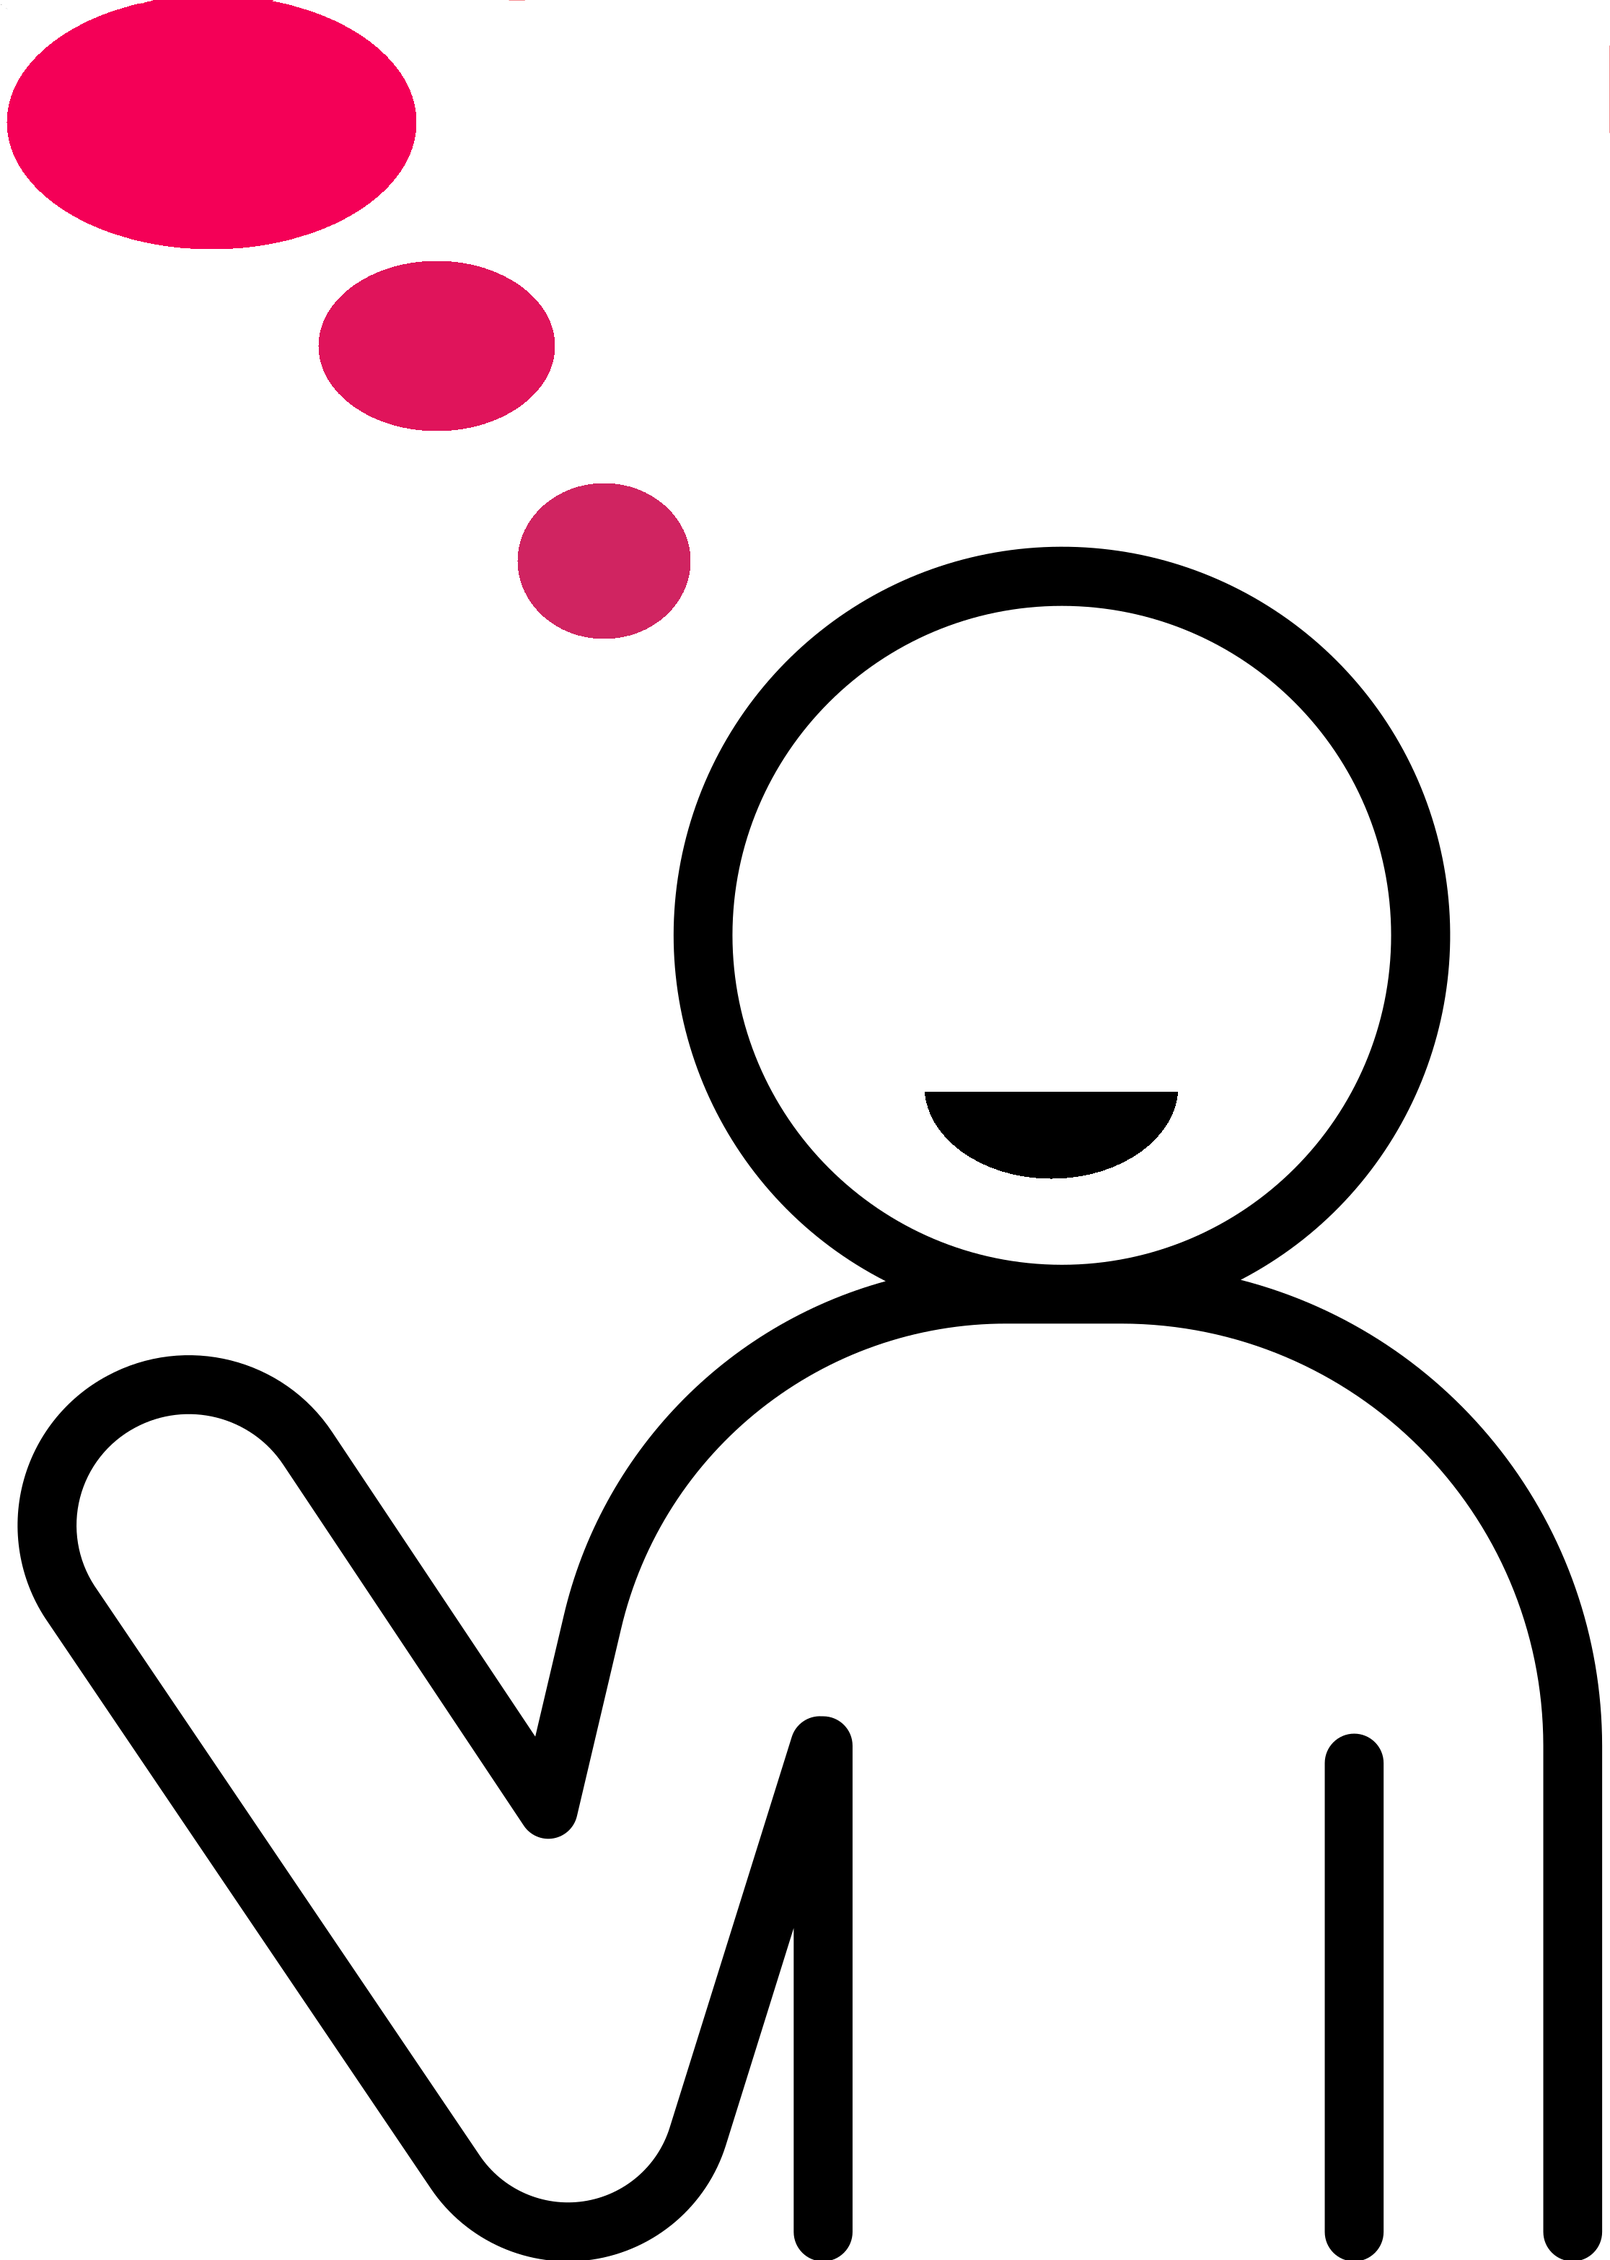
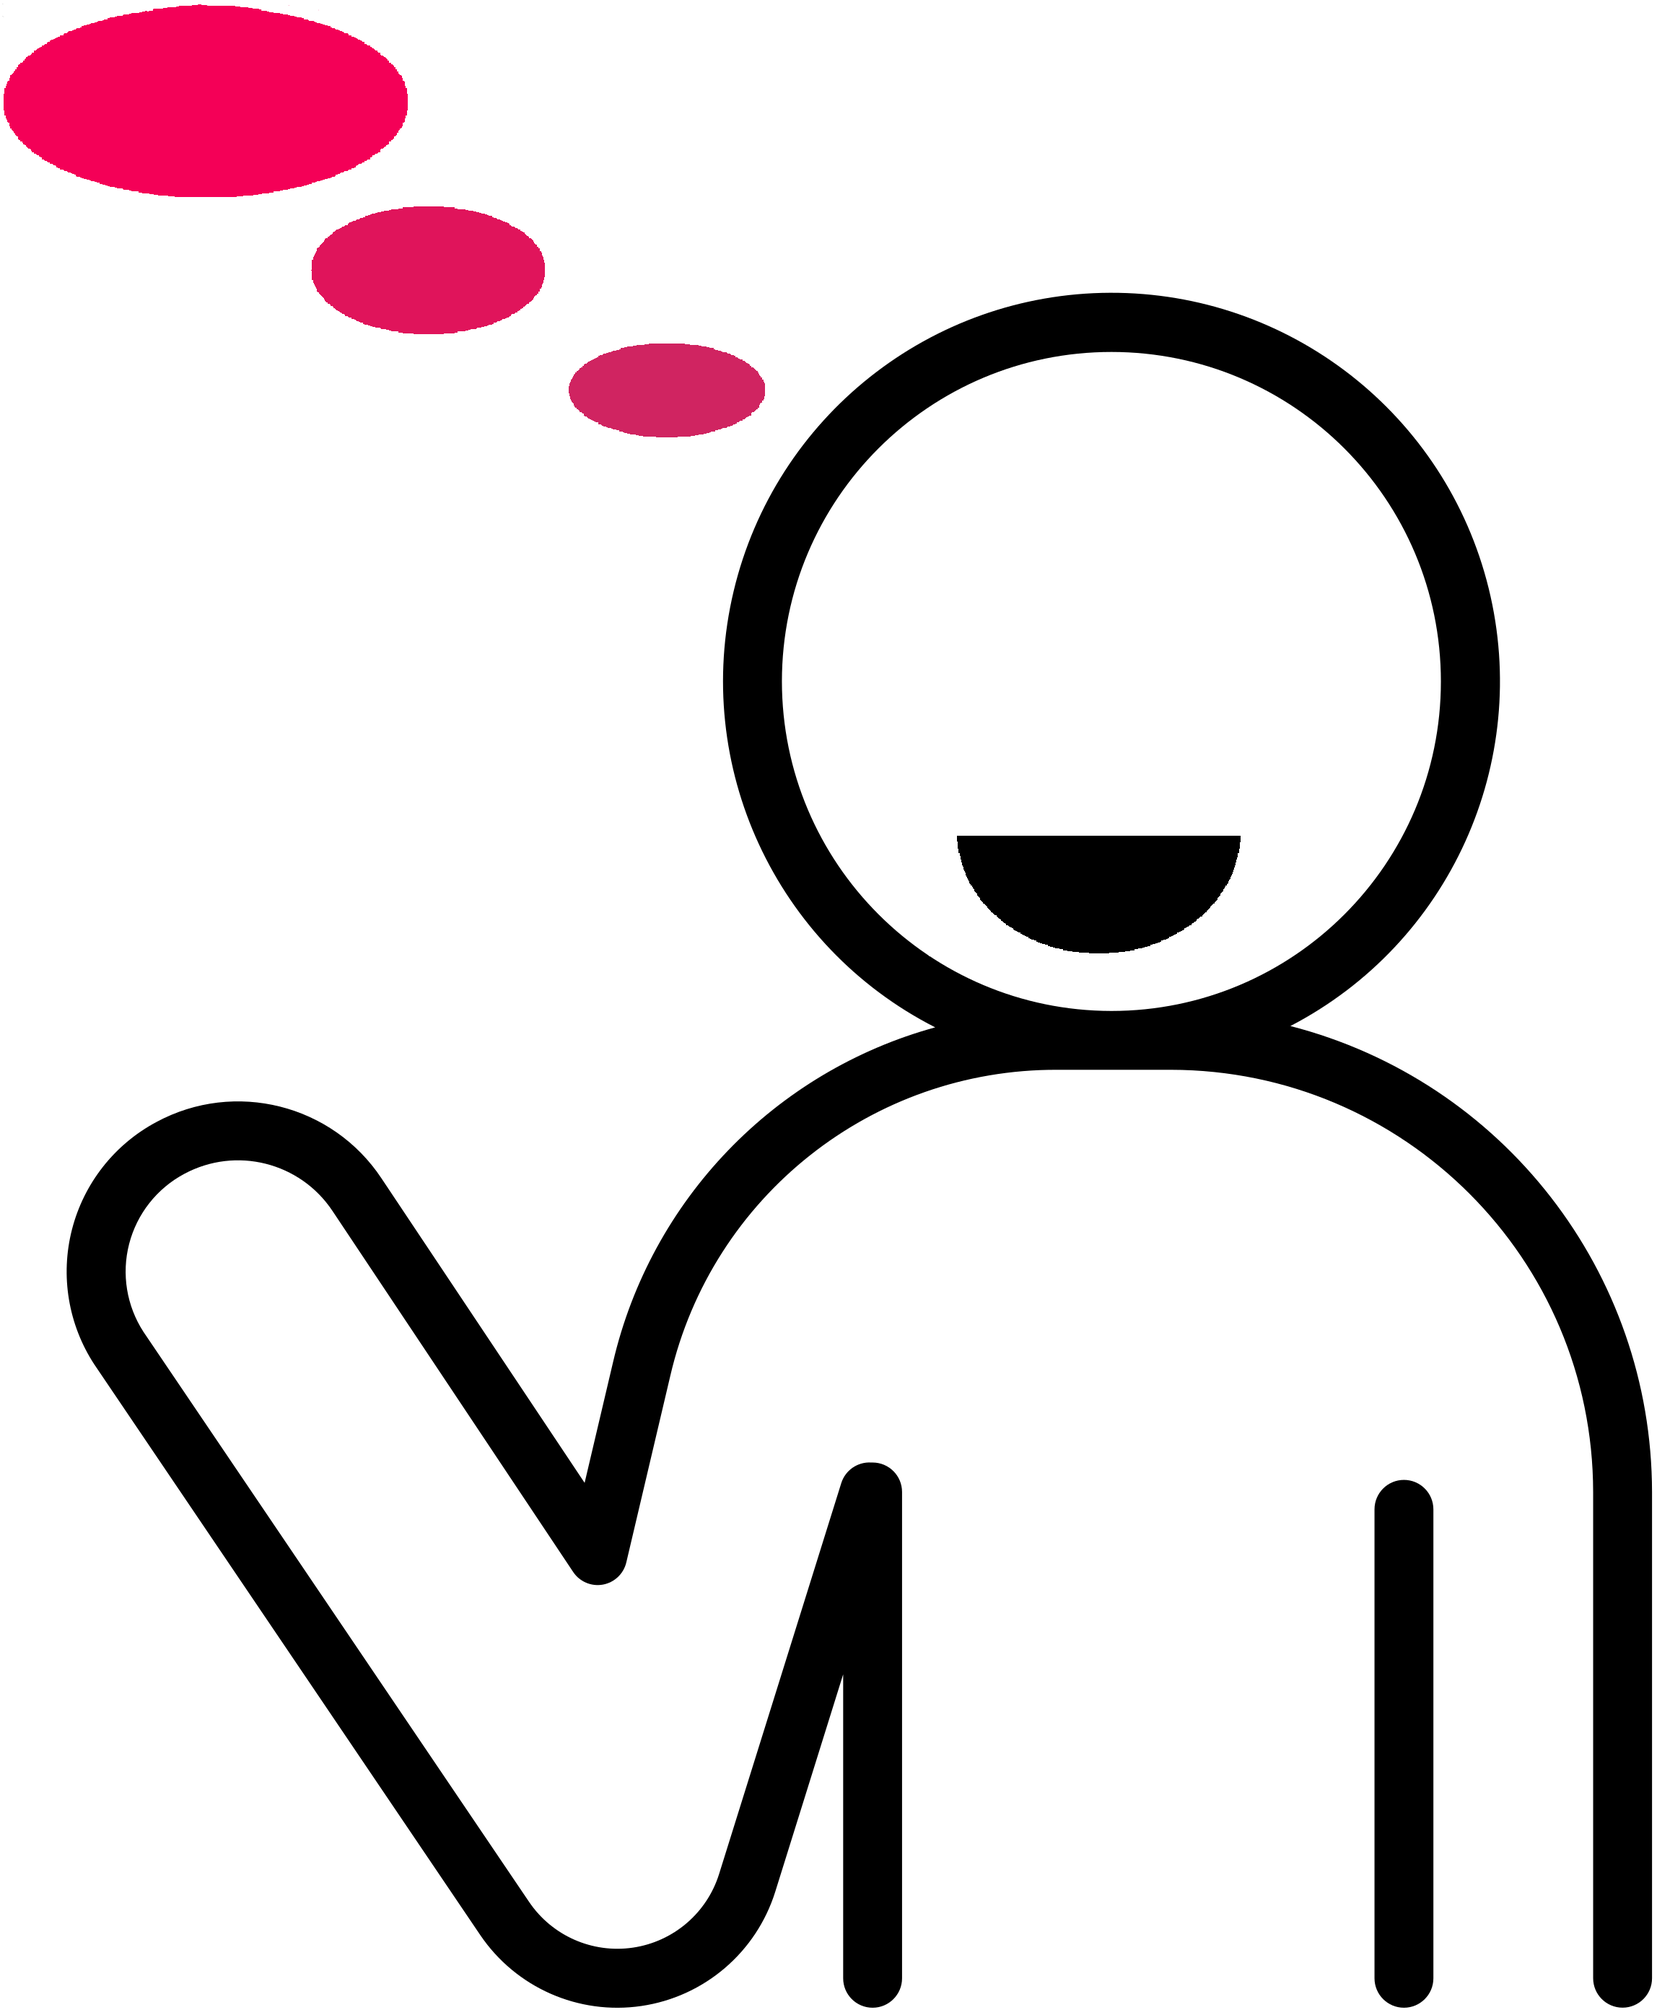
Update

diff --git a/src/Preparation.js b/src/Preparation.js
@@ -1,0 +1,37 @@
+import React from 'react'
+
+function Preparation() {
+    return (
+        <div>
+            <h3>
+                PRZYGOTOWANIE:
+            </h3>
+
+            <p>
+                Na patelni na łyżce oliwy zeszklić pokrojoną w kosteczkę cebulę, pod koniec dodać starty 1 ząbek czosnku oraz 1 łyżkę masła,
+                suszone oregano i paprykę w proszku, wymieszać i chwilę razem podsmażyć. Zdjąć z patelni i zmielić razem z mięsem
+                lub drobniej posiekać na desce.
+            </p>
+            <p>Zmielone mięso wraz z podsmażoną cebulą umieścić w misce. Dodać bułkę tartą lub ugotowaną kaszę, jajko, sos sojowy,
+                doprawić solą oraz pieprzem i dokładnie wyrobić. Wilgotnymi dłońmi uformować nieduże pulpeciki.
+            </p>
+            <p> 
+                Rozgrzać natłuszczoną oliwą patelnię i włożyć pulpeciki. Gdy się zrumienią od spodu przewrócić na drugą stronę i powtórzyć smażenie.
+                Pod koniec na patelnię dodać starty drugi ząbek czosnku i lekko go zrumienić.
+            </p>
+            <p> 
+                Na patelnię z pulpecikami wlać gorący bulion, przykryć pokrywą i gotować przez ok. 5 - 7 minut,
+                w międzyczasie potrząsnąć patelnią w celu przemieszania pulpecików.
+            </p>
+            <p> 
+                Dodać przecier pomidorowy i zagotować. Gotować bez przykrycia przez około 10 minut
+                (jeśli używaliśmy indyka) lub ok. 15 minut (w przypadku innego mięsa). W międzyczasie 1 - 2 razy zamieszać.
+            </p>
+            <p> 
+                Sos spróbować i doprawić w razie potrzeby solą, pieprzem, cukrem i suszonym oregano. Podawać z makaronem i tartym serem.
+            </p>
+        </div>
+    )
+}
+
+export default Preparation

diff --git a/src/PageTwo.js b/src/PageTwo.js
@@ -1,0 +1,55 @@
+import React from 'react';
+import styled from 'styled-components';
+import klopsikiSmall from './image/klopsikiSmall.PNG';
+import klopsikiHuge from './image/klopsikiHuge.PNG';
+import klopsikiPlate from './image/klopsikiPlate.PNG';
+import Ingredients from './Ingredients';
+import Preparation from './Preparation';
+
+
+const KlopsikiTop = styled.img`
+    display: block;
+    margin: 0 auto;
+    width: 80%;
+    max-width: 700px;
+`
+
+const Headline = styled.h1`
+    position: relative;
+    display: block;
+    margin: 30px auto;
+    width: fit-content;
+`
+
+const Footer = styled.footer`
+    font-size: 10px;
+`
+
+function PageTwo() {
+    return (
+        <div className='pageTwo'>
+            <KlopsikiTop
+                src={klopsikiSmall}
+                alt="małe zdjęcie klopsików"
+            />
+
+            <Headline>
+                Domowy przepis na <em>klopsiki w sosie pomidorowym</em>
+            </Headline>
+
+            <Ingredients />
+            <Preparation />
+
+            <h3>PROPOZYCJA PODANIA:</h3>
+            <h4>Z makaronem oraz tartym serem</h4>
+
+            <img src={klopsikiHuge} alt="" width="600" />
+            <img src={klopsikiPlate} alt="" width="600" />
+
+
+            <Footer>Zdjęcia oraz napisy zaczerpnięte z kwestiasmaku.com</Footer>
+        </div>
+    )
+}
+
+export default PageTwo;

diff --git a/src/App.js b/src/App.js
@@ -1,22 +1,35 @@
 import React from 'react';
 import './App.css';
-import ButtonToClick from './ButtonToClick';
-import Person from './Person';
+import { BrowserRouter as Router, Switch, Route } from 'react-router-dom';
+import PageOne from './PageOne';
+import PageTwo from './PageTwo';
+import PageThree from './PageThree';
 
 function App() {
   return (
-    <div className="App">
+    <Router>
+      <Switch>
 
-      <ButtonToClick />
+        <Route exact path='/'>
+          <PageOne />
+        </Route>
 
-      <Person />
+        <Route exact path='/pulpeciki'>
+          <PageTwo />
+        </Route>
 
-      {/* twarz meme */}
-      {/* just do it po 10 sek */}
-      {/* <img src="https://media.giphy.com/media/GcSqyYa2aF8dy/source.gif" alt="gif" /> */}
+        <Route exact path='/pulpeciki2'>
+          <PageThree />
+        </Route>
 
-    </div>
-  );
+      </Switch>
+    
+
+    {/* twarz meme */ }
+    {/* just do it po 10 sek */ }
+    {/* <img src="https://media.giphy.com/media/GcSqyYa2aF8dy/source.gif" alt="gif" /> */ }
+  </Router>
+  )
 }
 
 export default App;

diff --git a/src/ButtonToClick.js b/src/ButtonToClick.js
@@ -2,6 +2,7 @@ import "./ButtonToClick.css";
 import React from 'react';
 import { withStyles } from '@material-ui/core/styles';
 import Button from '@material-ui/core/Button';
+import { useHistory } from "react-router-dom";
 
 const StyledButton = withStyles({
     root: {
@@ -10,22 +11,24 @@ const StyledButton = withStyles({
 })(Button);
 
 function ButtonToClick() {
+    let history = useHistory();
 
     function handleClick() {
-        alert("praca w toku :D")
+        history.push('/pulpeciki');
     }
+    
     return (
         <div className="buttonToClick">
             <StyledButton
                 variant="contained"
                 color="secondary"
-                onClick={handleClick}  
+                onClick={handleClick}
                 className="button_styled"
             >
                 <h1>Kliknij mnie :)</h1>
             </StyledButton>
         </div>
     )
-}
+};
 
 export default ButtonToClick;

diff --git a/src/PageOne.js b/src/PageOne.js
@@ -1,0 +1,25 @@
+import React from 'react';
+import ButtonToClick from './ButtonToClick';
+import Person from './Person';
+import styled from 'styled-components';
+
+const Container = styled.div`
+    display: block;
+    position: relative;
+    width: 450px;
+    height: 530px;
+    margin: 10% auto;
+`
+
+function PageOne() {
+    return (
+        <Container>
+
+            <ButtonToClick />
+            <Person />
+
+        </Container>
+    )
+}
+
+export default PageOne;

diff --git a/src/Ingredients.js b/src/Ingredients.js
@@ -1,0 +1,21 @@
+import React from 'react'
+import styled from 'styled-components'
+
+const Header = styled.h3`
+    display: inline;
+`
+
+const Portion = styled.h6`
+    display: inline;
+    margin-left: 15px;
+`
+
+function Ingredients() {
+    return (
+        <div>
+            <Header>SKŁADNIKI</Header><Portion>/ 4 porcje</Portion>
+        </div>
+    )
+}
+
+export default Ingredients

diff --git a/src/Person.js b/src/Person.js
@@ -6,9 +6,9 @@ import styled from 'styled-components';
 const Image = styled.img`
     position: relative;
     display: block;
-    margin-left: 55%;
-    margin-top: 10px;
     width: 300px;
+    margin-top: 10px;
+    float: right;
 `
 
 function Person() {

diff --git a/src/index.css b/src/index.css
@@ -1,5 +1,5 @@
 body {
-  margin: 0;
+  margin: 0% 10% 0% 10%;
   font-family: -apple-system, BlinkMacSystemFont, 'Segoe UI', 'Roboto', 'Oxygen',
     'Ubuntu', 'Cantarell', 'Fira Sans', 'Droid Sans', 'Helvetica Neue',
     sans-serif;

diff --git a/src/ButtonToClick.css b/src/ButtonToClick.css
@@ -1,10 +1,6 @@
 .buttonToClick {
     position: relative;
     display: block;
-    margin: auto;
     width: 245px;
-}
-
-.button_styled {
-    border-radius: 1000px;
+    float: left;
 }

diff --git a/src/PageThree.js b/src/PageThree.js
@@ -1,0 +1,11 @@
+import React from 'react';
+
+function PageThree() {
+    return (
+        <div>
+            
+        </div>
+    )
+}
+
+export default PageThree;
